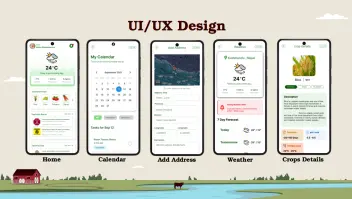
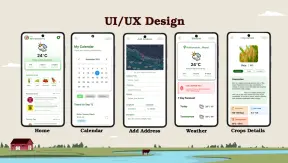
Inline critical CSS, lazy-load the command palette, responsive screenshots
- prerender.mjs runs beasties: first-paint CSS is inlined, the full
  stylesheet loads without blocking render. Evaluated with .theme-dark on
  <html> so dark-theme rules are kept.
- The ⌘K palette (cmdk + Radix Dialog, ~17 kB gz) loads on first open;
  shortcut and open event moved to lib/command.ts.
- Main screenshot gets a 720px srcset variant; tab thumbnails are 288px.

diff --git a/src/app/data/projects.ts b/src/app/data/projects.ts
@@ -6,6 +6,10 @@ import journalThumb from '../../assets/images/thumbs/BLog.webp';
 import attendanceThumb from '../../assets/images/thumbs/eattendance.webp';
 import chitwanThumb from '../../assets/images/thumbs/chitwan-computer-live.webp';
 import aabhaaThumb from '../../assets/images/thumbs/aaabhaa.webp';
+import journalMd from '../../assets/images/md/BLog.webp';
+import attendanceMd from '../../assets/images/md/eattendance.webp';
+import chitwanMd from '../../assets/images/md/chitwan-computer-live.webp';
+import aabhaaMd from '../../assets/images/md/aaabhaa.webp';
 
 export type Accent = 'blue' | 'orange' | 'green' | 'purple';
 
@@ -21,8 +25,11 @@ export type Project = {
   /** 2–3 concrete things you did or decided. No adjectives without evidence. */
   highlights: string[];
   stack: string[];
+  /** Full-size screenshot, at least 1174px wide. */
   image: string;
-  /** Small copy of `image` (352px wide) for the work tabs. */
+  /** 720px-wide copy of `image` for phones and 1x laptop screens. */
+  imageMd: string;
+  /** Small copy of `image` (288px wide) for the work tabs. */
   thumb: string;
   live?: string;
   /** Offer an embedded live preview of `live` (only for sites that load and allow framing). */
@@ -45,6 +52,7 @@ export const projects: Project[] = [
     ],
     stack: ['Java', 'Android', 'Laravel', 'Firebase', 'REST'],
     image: aabhaaShot,
+    imageMd: aabhaaMd,
     thumb: aabhaaThumb,
     source: 'https://github.com/Sandesh-Gadal/Aabhaa'
   },
@@ -62,6 +70,7 @@ export const projects: Project[] = [
     stack: ['React', 'Laravel', 'MySQL', 'Tailwind CSS'],
     // Was live at blog.oxfordcollege.edu.np; down for maintenance as of Oct 2026. Restore `live` when it's back.
     image: journalShot,
+    imageMd: journalMd,
     thumb: journalThumb
   },
   {
@@ -77,6 +86,7 @@ export const projects: Project[] = [
     ],
     stack: ['Laravel', 'MySQL', 'NFC', 'REST', 'Bootstrap'],
     image: attendanceShot,
+    imageMd: attendanceMd,
     thumb: attendanceThumb,
     source: 'https://github.com/Sandesh-Gadal/eAttendance'
   },
@@ -93,6 +103,7 @@ export const projects: Project[] = [
     ],
     stack: ['React', 'Laravel', 'MySQL', 'REST', 'Tailwind CSS'],
     image: chitwanShot,
+    imageMd: chitwanMd,
     thumb: chitwanThumb,
     live: 'https://chitwancomputer.com.np',
     // Repo is private or gone (404 as of Oct 2026); add `source` back if it's made public.

diff --git a/src/app/components/navbar.tsx b/src/app/components/navbar.tsx
@@ -1,7 +1,9 @@
-import { useEffect, useState } from 'react';
+import { lazy, Suspense, useEffect, useState } from 'react';
 import { Command, Menu, Moon, Sun, X } from 'lucide-react';
-import { CommandMenu } from './command-menu';
 import { useActiveSection, useTheme } from '../lib/hooks';
+import { useCommandShortcut } from '../lib/command';
+
+const CommandMenu = lazy(() => import('./command-menu'));
 
 const navItems = [
   { label: 'Work', id: 'work' },
@@ -17,6 +19,10 @@ const sectionIds = navItems.map((item) => item.id);
 export function Navbar() {
   const [open, setOpen] = useState(false);
   const [paletteOpen, setPaletteOpen] = useState(false);
+  // Mount (and so download) the palette on first open; keep it mounted after that.
+  const [paletteUsed, setPaletteUsed] = useState(false);
+  if (paletteOpen && !paletteUsed) setPaletteUsed(true);
+  useCommandShortcut(paletteOpen, setPaletteOpen);
   const [scrolled, setScrolled] = useState(false);
   const active = useActiveSection(sectionIds);
   const { theme, toggle } = useTheme();
@@ -104,7 +110,11 @@ export function Navbar() {
         </div>
       </nav>
 
-      <CommandMenu open={paletteOpen} onOpenChange={setPaletteOpen} theme={theme} onToggleTheme={toggle} />
+      {paletteUsed && (
+        <Suspense fallback={null}>
+          <CommandMenu open={paletteOpen} onOpenChange={setPaletteOpen} theme={theme} onToggleTheme={toggle} />
+        </Suspense>
+      )}
 
       {open && (
         <ul id="mobile-nav" className="page grid pb-4 lg:hidden">

diff --git a/src/app/components/command-menu.tsx b/src/app/components/command-menu.tsx
@@ -1,4 +1,3 @@
-import { useEffect } from 'react';
 import { ArrowRight, Copy, Download, Github, Linkedin, Mail, Moon, Sun } from 'lucide-react';
 import {
   CommandDialog,
@@ -10,9 +9,6 @@ import {
 } from './ui/command';
 import { profile } from '../data/profile';
 import type { Theme } from '../lib/hooks';
-
-/** Dispatch this from anywhere (e.g. the footer status bar) to open the palette. */
-export const OPEN_COMMAND_EVENT = 'open-command-menu';
 
 const sections = [
   { label: 'Home', id: 'top' },
@@ -32,24 +28,8 @@ type Props = {
   onToggleTheme: () => void;
 };
 
-export function CommandMenu({ open, onOpenChange, theme, onToggleTheme }: Props) {
-  // ⌘K / Ctrl+K toggles; custom event opens.
-  useEffect(() => {
-    const onKey = (e: KeyboardEvent) => {
-      if (e.key.toLowerCase() === 'k' && (e.metaKey || e.ctrlKey)) {
-        e.preventDefault();
-        onOpenChange(!open);
-      }
-    };
-    const onOpen = () => onOpenChange(true);
-    window.addEventListener('keydown', onKey);
-    window.addEventListener(OPEN_COMMAND_EVENT, onOpen);
-    return () => {
-      window.removeEventListener('keydown', onKey);
-      window.removeEventListener(OPEN_COMMAND_EVENT, onOpen);
-    };
-  }, [open, onOpenChange]);
-
+/** The ⌘K palette. Lazy-loaded by the navbar on first open; the shortcut lives in lib/command.ts. */
+export default function CommandMenu({ open, onOpenChange, theme, onToggleTheme }: Props) {
   const run = (fn: () => void) => () => {
     onOpenChange(false);
     fn();

diff --git a/src/app/lib/command.ts b/src/app/lib/command.ts
@@ -1,0 +1,26 @@
+import { useEffect } from 'react';
+
+/** Dispatch this from anywhere (e.g. the footer status bar) to open the command palette. */
+export const OPEN_COMMAND_EVENT = 'open-command-menu';
+
+/**
+ * ⌘K / Ctrl+K toggles the palette; OPEN_COMMAND_EVENT opens it. Lives outside command-menu.tsx
+ * so the palette (cmdk + Radix Dialog) can load on first open instead of with the page.
+ */
+export function useCommandShortcut(open: boolean, setOpen: (open: boolean) => void) {
+  useEffect(() => {
+    const onKey = (e: KeyboardEvent) => {
+      if (e.key.toLowerCase() === 'k' && (e.metaKey || e.ctrlKey)) {
+        e.preventDefault();
+        setOpen(!open);
+      }
+    };
+    const onOpen = () => setOpen(true);
+    window.addEventListener('keydown', onKey);
+    window.addEventListener(OPEN_COMMAND_EVENT, onOpen);
+    return () => {
+      window.removeEventListener('keydown', onKey);
+      window.removeEventListener(OPEN_COMMAND_EVENT, onOpen);
+    };
+  }, [open, setOpen]);
+}

diff --git a/src/app/components/projects-section.tsx b/src/app/components/projects-section.tsx
@@ -280,6 +280,8 @@ function Card({ project, live, onToggleLive }: { project: Project; live: boolean
         ) : (
           <img
             src={project.image}
+            srcSet={`${project.imageMd} 720w, ${project.image} 1174w`}
+            sizes="(min-width: 1024px) 600px, calc(100vw - 2rem)"
             alt={`Screenshot of ${project.title}`}
             decoding="async"
             className="absolute inset-0 size-full object-cover object-top"

diff --git a/src/app/components/footer.tsx b/src/app/components/footer.tsx
@@ -1,7 +1,7 @@
 import { Command } from 'lucide-react';
 import { profile } from '../data/profile';
 import { useLocalTime } from '../lib/hooks';
-import { OPEN_COMMAND_EVENT } from './command-menu';
+import { OPEN_COMMAND_EVENT } from '../lib/command';
 import { VisitCounter } from './visit-counter';
 
 export function Footer() {
